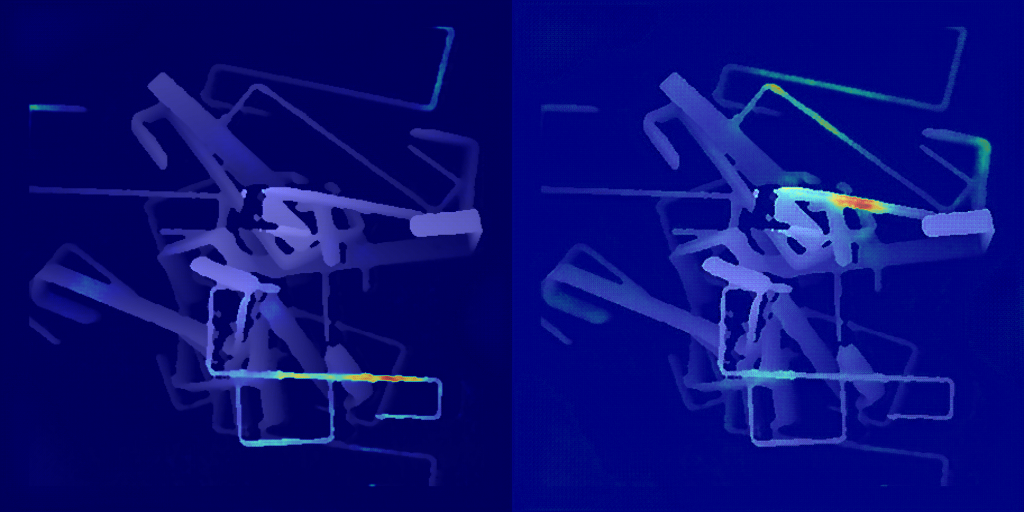
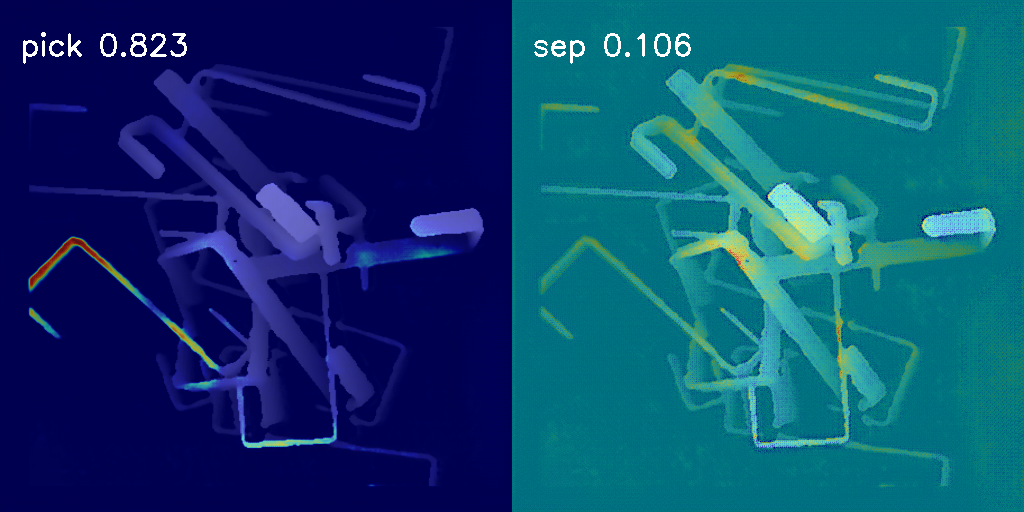
revise tangle solution

diff --git a/example/test2.py b/example/test2.py
@@ -1,4 +1,5 @@
 import numpy as np
+<<<<<<< Updated upstream
 # import matplotlib.pyplot as plt
 # from scipy.misc import electrocardiogram
 # from scipy.signal import find_peaks
@@ -36,3 +37,96 @@ plt.plot(x, y, linewidth=2, linestyle="-", c='r')  # it include some noise
 plt.plot(x, w, 'b')  # high frequency noise removed
 
 plt.show()
+=======
+from bpbot.config import BinConfig
+from bpbot.binpicking import *
+import pickle
+import cv2
+
+
+def detect(img_path, exp_mode):
+    h_params = {
+        "finger_length": 15,
+        "finger_width":  8, 
+        "open_width":    30
+    }
+    # h_params = {
+    #     "finger_length": 15,
+    #     "finger_width":  8, 
+    #     "open_width":    30
+    # }
+    g_params = {
+        "rotation_step": 22.5, 
+        "depth_step":    25,
+        "hand_depth":    25
+    }
+    t_params = {
+        "compressed_size": 200,
+        "len_thld": 10,
+        "dist_thld": 5,
+        "sliding_size": 50,
+        "sliding_stride": 50
+    }
+    print(f"[*] Method : {exp_mode}")
+    if exp_mode.lower() == "fge":
+        grasps = detect_grasp(n_grasp=1, img_path=img_path, 
+                        g_params=g_params,
+                        h_params=h_params)
+        print("test:", grasps)
+        if grasps is not None: 
+            # return grasps[0][:2]
+            return grasps
+        return
+
+    elif exp_mode.lower() == "emap": 
+        out = detect_nontangle_grasp(n_grasp=1, img_path=img_path, 
+                                    g_params=g_params, 
+                                    h_params=h_params,
+                                    t_params=t_params)
+        if out is not None: 
+            return out
+            # return grasps[0][:2]
+        return
+    
+    elif exp_mode.lower() == "pn":
+        from bpbot.module_picksep import PickSepClient
+        psc = PickSepClient()
+        ret = psc.infer_picknet(img_path)
+        return ret[1][:2]
+    else: 
+        print("[!] No valid mode! ")
+        return
+cfg = BinConfig()
+cfgdata = cfg.data
+root_dir = "C:\\Users\\xinyi\\Material\\RA-L2022Tangle\\result\\vis_for_ral\\pn_sr"
+print(pickle.load(open(os.path.join(root_dir, "picknet_score.pickle"), 'rb')))
+
+img_path = os.path.join(root_dir, "depth_cropped_pickbin.png")
+
+out = detect(img_path, 'emap')
+g, emap = out
+img = cv2.imread(img_path)
+
+# vis = cv2.applyColorMap(emap, cv2.COLORMAP_JET)
+vis = cv2.applyColorMap(emap, cv2.COLORMAP_VIRIDIS)
+overlay = cv2.addWeighted(img, 0.85, vis, 0.15, 0)
+img_grasp = draw_grasp(g, overlay, cfgdata["hand"]["left"], top_color=(0,255,0), top_only=True)
+cv2.imshow("", img_grasp)
+cv2.waitKey()
+cv2.destroyAllWindows()
+cv2.imwrite(os.path.join(root_dir, "emap2.png"), img_grasp)
+
+
+# out = detect(img_path, 'fge')
+
+# img_grasp = draw_grasp(out, img_path, cfgdata["hand"]["left"], top_color=(0,255,0), top_only=True)
+
+# cv2.imshow("", img_grasp)
+# cv2.waitKey()
+# cv2.destroyAllWindows()
+# cv2.imwrite(os.path.join(root_dir, "fge.png"), img_grasp)
+
+
+
+
+>>>>>>> Stashed changes

diff --git a/bpbot/binpicking.py b/bpbot/binpicking.py
@@ -413,24 +413,29 @@ def detect_nontangle_grasp(n_grasp, img_path, g_params, h_params, t_params):
     """
     img = cv2.imread(img_path)
     img = adjust_grayscale(img)
+    plt.imshow(img), plt.show()
 
     emap = get_entanglement_map(img, t_params)
 
-    _ssz = t_params["sliding_size"]
-    _sst = t_params["sliding_stride"]
     height, width, _ = img.shape
+    # _ssz = int(t_params["sliding_size"] * height / t_params["compressed_size"])
+    # _sst = int(t_params["sliding_stride"] * height / t_params["compressed_size"])
+    _ssz = 175
+    _sst = 50
     
-    emap /= (emap.max() / 255.0) # real writhe value
-    emap = np.uint8(255 - cv2.resize(emap, (width, height)))
+    # emap /= (emap.max() / 255.0) # real writhe value
+    emap = cv2.normalize(emap, None, 0, 255, cv2.NORM_MINMAX).astype(np.uint8)
+    emap = cv2.resize(emap, (width, height))
     region_min = 9999
     region_oi = None
     roi_left_top = [0, 0]
     for y in range(0,height-_ssz + 1, _sst): 
         for x in range(0,width-_ssz + 1, _sst): 
-            cropped = img[y:y + _ssz , x:x + _ssz]
+            cropped = emap[y:y + _ssz , x:x + _ssz]
             if cropped.mean() <= region_min: 
                 region_min = cropped.mean()
-                region_oi = cropped
+
+                region_oi = img[y:y + _ssz , x:x + _ssz]
                 roi_left_top = [x, y]
     finger_w = int(h_params["finger_width"] * _ssz / width)
     finger_h = int(h_params["finger_length"] * _ssz / width)
@@ -451,9 +456,14 @@ def detect_nontangle_grasp(n_grasp, img_path, g_params, h_params, t_params):
     hand_open_mask, hand_close_mask = gripper.create_hand_model()
 
     # generate graspability map
+    
     candidates = method.graspability_map(region_oi, 
                                          hand_open_mask=hand_open_mask, 
                                          hand_close_mask=hand_close_mask)
+    
+    loc = (int(candidates[0][1]), int(candidates[0][2]))
+    cv2.circle(region_oi, loc, 5, (0,255,0), -1)
+    plt.imshow(region_oi), plt.show()
     # candidates = method.combined_graspability_map(img, hand_open_mask, hand_close_mask, emap)
     # roi -> complete depth map
     if candidates != []:
@@ -461,7 +471,7 @@ def detect_nontangle_grasp(n_grasp, img_path, g_params, h_params, t_params):
         # ranking grasps
         grasps = method.grasp_ranking(candidates, n=n_grasp, h=height, w=width)
         print(f"[*] Detected {len(grasps)} grasps from {len(candidates)} candidates! ")
-        return grasps 
+        return grasps, emap
     return
 
 def predict_action_grasp(grasps, imgpath):

diff --git a/bpbot/tangle_solution/example_disentangle.py b/bpbot/tangle_solution/example_disentangle.py
@@ -163,6 +163,7 @@ def main():
     graph = np.reshape(graph, (5, 9, 3))
     load(tc6d, graph, proj_ea=[0,0,0])
     graph = graph[:2]
+    load(tc6d, graph, proj_ea=[0,0,0])
     # load(tc6d, graph, proj_ea=[70,20,0])
     # load(tc6d, graph, proj_ea=[45,10,0])
     # for v in views:
